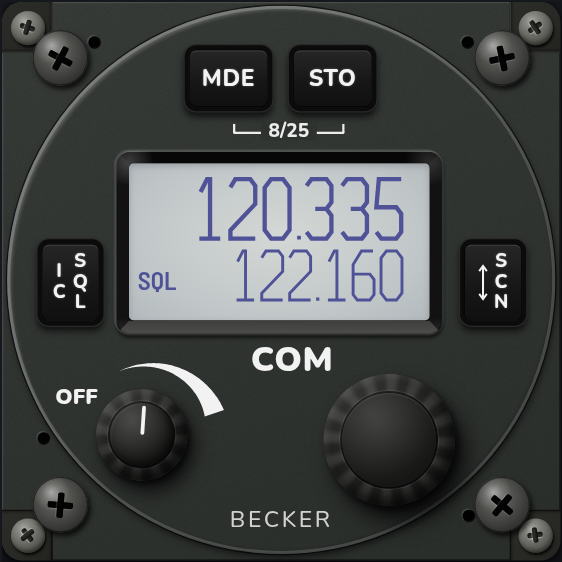
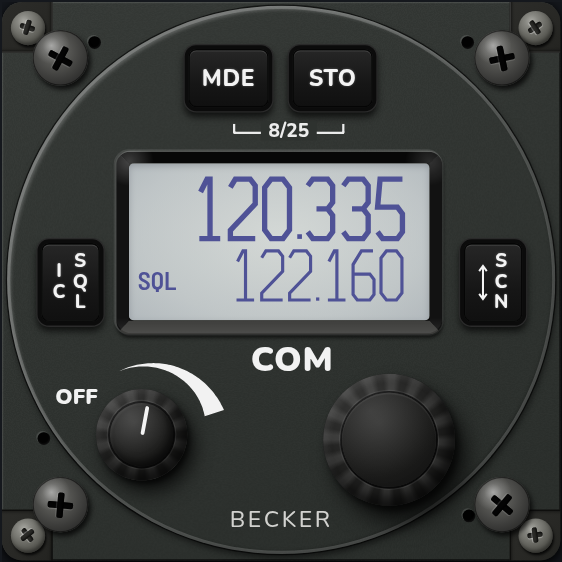
fix: draw AR6201 active frequency in bold strokes as on the unit

diff --git a/sim/shared/style.css b/sim/shared/style.css
@@ -405,9 +405,9 @@ select { background: var(--panel-2); color: var(--text); border: 1px solid #3a43
    width about half the height, close together; the active line has the thicker stroke */
 .lcd.pos svg.dg { display: inline-block; height: .8em; width: .4em; margin: 0 .035em; vertical-align: baseline; fill: none; stroke: currentColor; stroke-width: 2px; stroke-linejoin: miter; stroke-miterlimit: 1.5; overflow: visible; }   /* sharp joins cut off, no spikes */
 .lcd.pos svg.dg.dot { width: .1em; margin: 0 .02em; fill: currentColor; stroke: none; }
-.lcd.pos .b1 svg.dg { height: 52px; width: 23.5px; margin: 0 1.85px; stroke-width: 3.4px; }   /* digit 0.49 h wide, gap 0.09 h (photo) */
-.lcd.pos .b2 svg.dg { height: 43px; width: 19.8px; margin: 0 1.2px; stroke-width: 2.3px; }
-.lcd.pos .b1 svg.dg.dot { width: 4px; margin: 0 1px; }
+.lcd.pos .b1 svg.dg { height: 52px; width: 23.5px; margin: 0 1.85px; stroke-width: 4.2px; }   /* digit 0.49 h wide, gap 0.09 h; bold: stroke 0.08 h (photo) */
+.lcd.pos .b2 svg.dg { height: 43px; width: 19.8px; margin: 0 1.2px; stroke-width: 2.5px; }   /* stroke 0.058 h (photo) */
+.lcd.pos .b1 svg.dg.dot { width: 5px; margin: 0 1px; }
 .lcd.pos .b2 svg.dg.dot { width: 3.5px; margin: 0 1px; }
 .lcd.pos .b1, .lcd.pos .b2 { font-size: 0; line-height: 0; padding-right: 13px; }   /* right margin as on the unit */
 .lcd.pos .b1 { align-self: end; padding-bottom: 2px; }
